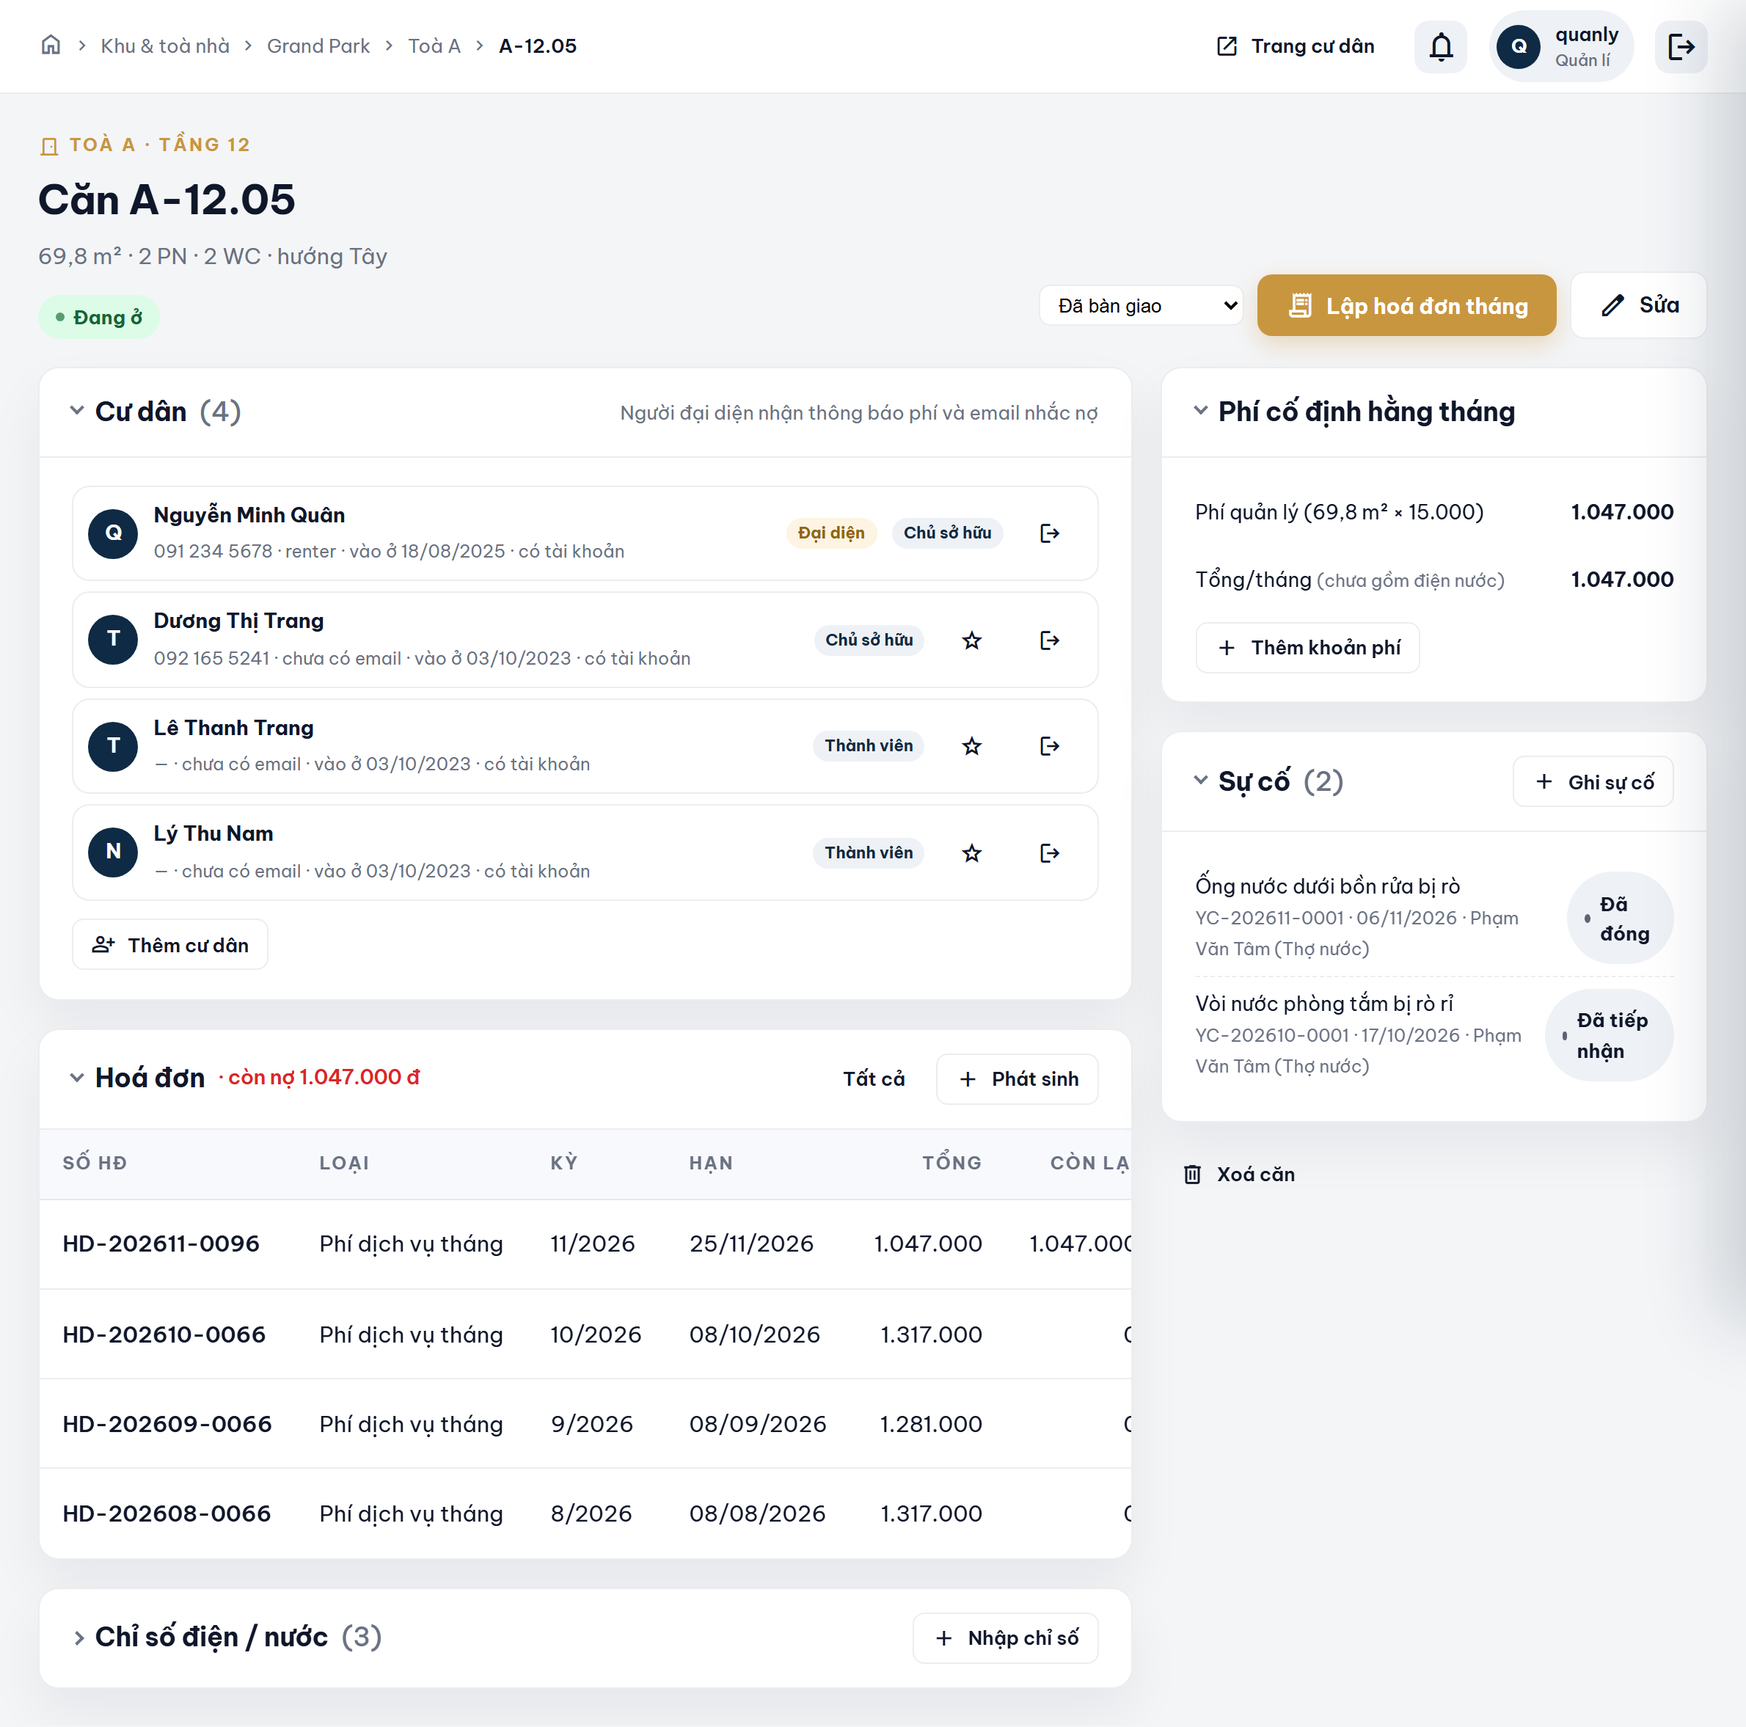
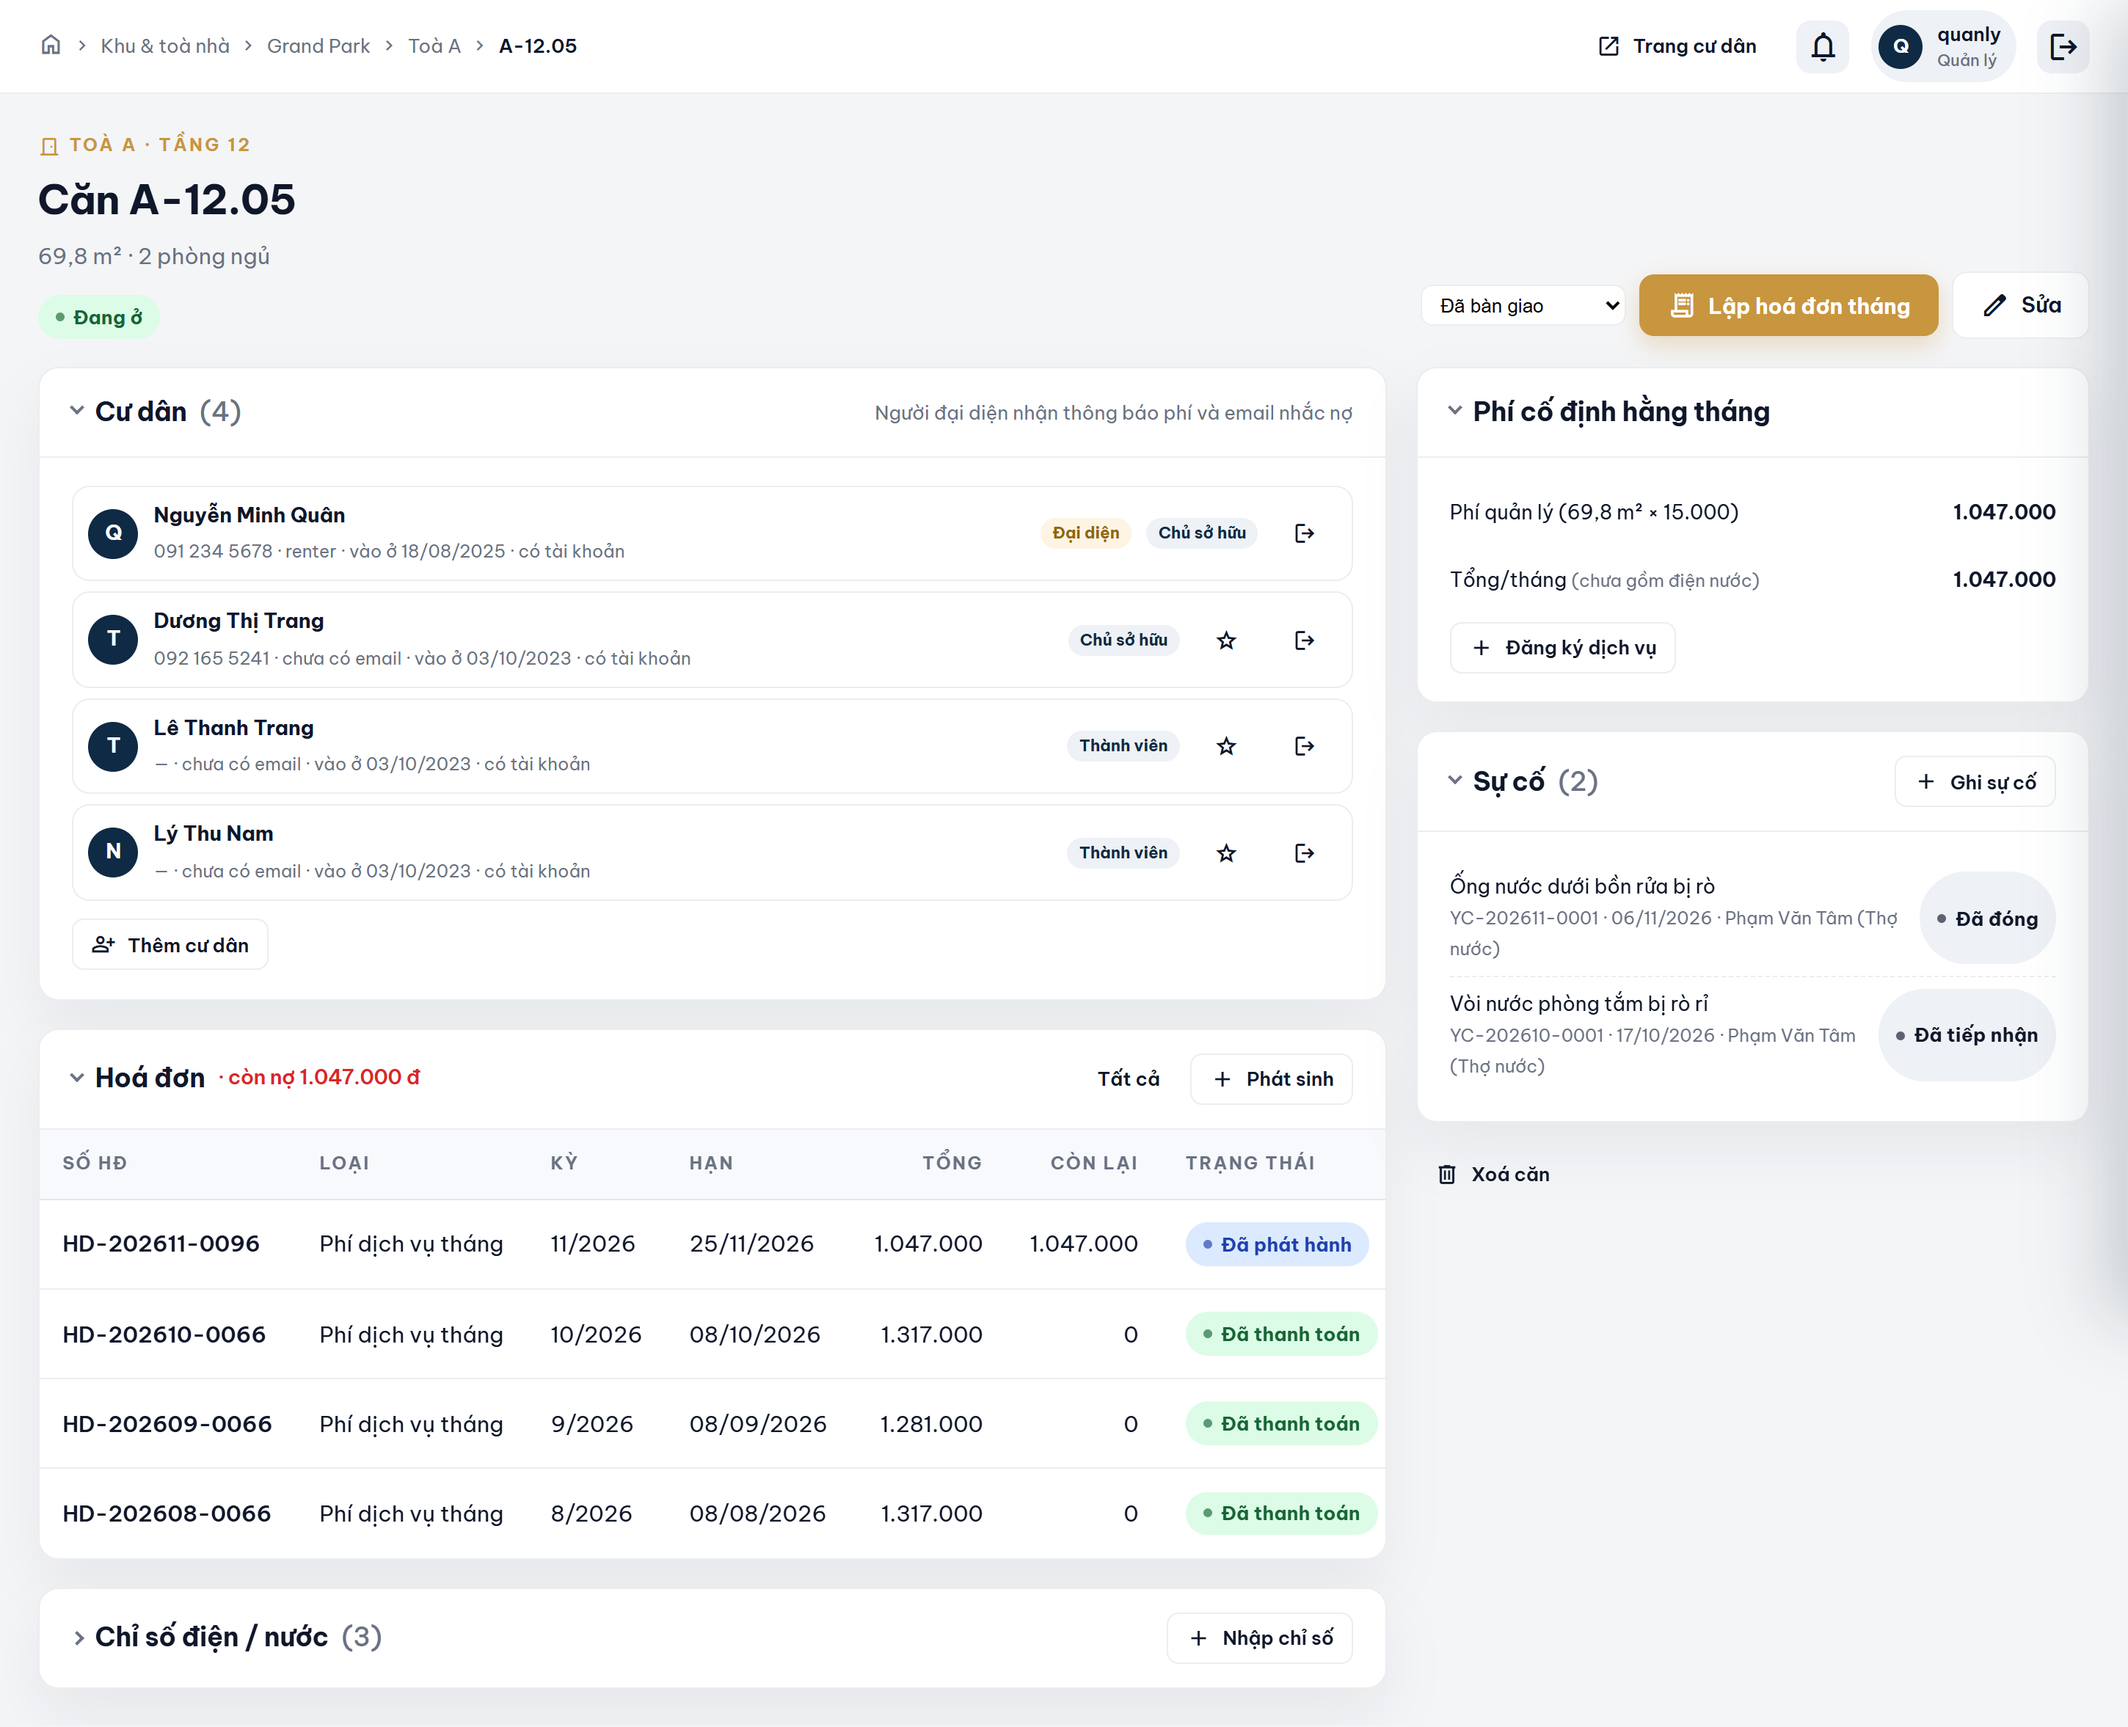
docs: rà Chương 4 và toàn báo cáo theo sổ yêu cầu
- Chương 4 khớp mã nguồn và CSDL; Bảng 4.7 đối chiếu ngày 25/11; chụp lại Hình 4.1-4.7
- Bỏ thuật ngữ kỹ thuật (prompt, token, xmin, tên cột); Bảng 4.2 ghi tên quyền tiếng Việt
- Chương 1: công thức KPI bằng lời, bỏ câu Bản nháp và câu giải thích include/extend
- Bảng kế hoạch: tuần 6 hoàn thành, tuần 7 đang thực hiện; Chương 3 không hứa đánh giá AI ở Chương 4

diff --git a/docs/baocao/tools/chup_man_hinh.py b/docs/baocao/tools/chup_man_hinh.py
@@ -16,7 +16,7 @@ CU_DAN = ("renter@luxehaven.vn", "Renter@123")
 
 # (số hình, tên file, tài khoản, đường dẫn, cách chụp: "trang" | "khung" | selector chứa chữ)
 HINH = [
-    ("4.1", "Trang chi tiet can ho", QUAN_LY, "/Admin/Apartments/Details/93", "trang"),
+    ("4.1", "Trang chi tiet can ho", QUAN_LY, "/Admin/Apartments/Details/93", "trang", 1700),  # bảng hoá đơn đủ cột
     ("4.2", "Hoa don qua han co phi tre", QUAN_LY, "/Admin/Invoices/Details/211", "trang"),
     ("4.3", "Cu dan theo doi yeu cau", CU_DAN, "/Tenant/Maintenance/Details/6", "trang"),
     ("4.4", "Lich su xu ly ngoai le", QUAN_LY, "/Admin/Maintenance/Details/7", "Lịch sử xử lý"),
@@ -30,6 +30,11 @@ AN_TEN = """() => {
   const w = document.createTreeWalker(document.body, NodeFilter.SHOW_TEXT);
   for (let n; (n = w.nextNode());) n.nodeValue = thay(n.nodeValue);
   document.querySelectorAll('input[value]').forEach(i => i.value = thay(i.value));
+  // trình duyệt chụp không theo locale vi-VN cho ô ngày: hiện dd/mm/yyyy như máy tiếng Việt
+  document.querySelectorAll('input[type=date]').forEach(i => {
+    const [y, m, d] = i.value.split('-'); if (!d) return;
+    i.type = 'text'; i.value = `${d}/${m}/${y}`;
+  });
 }"""
 
 
@@ -44,7 +49,7 @@ def dang_nhap(page, tk):
 def main(chon):
     OUT.mkdir(exist_ok=True)
     with sync_playwright() as p:
-        browser = p.chromium.launch(args=["--lang=vi-VN"])   # ô ngày hiện dd/mm/yyyy
+        browser = p.chromium.launch(channel="chromium", args=["--lang=vi-VN"])   # ô ngày hiện dd/mm/yyyy
         ctx = {}
         for so, ten, tk, url, cach, *rong in HINH:
             rong = rong[0] if rong else 1440   # bảng hai cột của báo cáo KPI cần khung rộng hơn

diff --git a/docs/baocao/tools/sua_bao_cao_v2.py b/docs/baocao/tools/sua_bao_cao_v2.py
@@ -531,6 +531,7 @@ def main():
     gon_bao_cao.bo_muc_uc_chuong3(body, set_text)
     gon_bao_cao.gop_so_do_lop(body, set_text)
     gon_bao_cao.bo_viet_tat_thua(body)
+    gon_bao_cao.sua_trang_thai_tuan(body, set_text)
     treo, doi = gon_bao_cao.danh_so_lai(body, set_text)
     print(f"đánh số lại {doi} bảng; tham chiếu treo: {treo or 'không'}")
     treo, doi = gon_bao_cao.danh_so_hinh(body, set_text, {"3.2": "1", "3.4": "1"})

diff --git a/docs/baocao/DanhSach_YeuCau_BaoCao.md b/docs/baocao/DanhSach_YeuCau_BaoCao.md
@@ -68,3 +68,27 @@ người dùng áp được (ở đây: "quá trừu tượng, ưu tiên dễ hi
 - D5: Bảng 2.1 dòng gộp "VAI_TRO, QUYEN" → tách hai dòng.
 - A1: đoạn sơ đồ tuần tự còn luật "thanh kích hoạt"; câu "bội số lấy theo khoá ngoại" → bỏ.
 - A9: câu "chạy thử … thuộc phần việc tiếp theo" (Chương 3) đã cũ → bỏ; danh mục viết tắt bỏ GUID, HTTT, LLM, RD (không còn dùng).
+
+## Kết quả rà Chương 4 ngày 25/11/2026 (đêm)
+
+Đọc toàn văn Chương 4, đối chiếu từng câu với mã nguồn, từng số với CSDL (truy vấn chỉ đọc), chụp lại và xem từng hình.
+- Số liệu đúng: 5 toà, 538 căn, 748 cư dân, kỳ 8–11/2026; giá quản lý 15.000 đ/m², xe máy 120.000 đ; hạn = ngày lập + 7;
+  khoá 5 lần/5 phút; phiên hết hiệu lực sau 1 phút; quét quá hạn 15 phút; Bảng 4.5 khớp lịch sử YC-202611-0001.
+- Bảng 4.7 đổi sang ngày 25/11 (khớp ngày chụp Hình 4.5–4.7); nhóm tuổi nợ đổi: 1–30 ngày = 0, 31–60 = 316.048.734.
+  Mọi số trên app (bảng điều khiển, tình trạng căn, tài chính, tuổi nợ, KPI) khớp SQL.
+- Sai với mã nguồn → sửa: phân loại lại chỉ tính lại hạn khi đổi mức ưu tiên (Bảng 4.6).
+- A2/A5: bỏ prompt, tham số sinh, token, xmin, KetQuaXuLy, "tem bảo mật"; Bảng 4.2 ghi tên quyền tiếng Việt thay mã
+  projects.view…; UTC giải thích bằng lời; bỏ câu thừa về tên miền email thử; câu "đổi loại thành" lặp → gọn.
+- Đồng bộ tên trạng thái: giao diện đổi theo báo cáo (Đang xử lý, Đã xử lý, Từ chối); Bảng 1.10 "Mới gửi, Đã tiếp nhận".
+- Giao diện (thấy khi xem ảnh): "Quản lí"→"Quản lý", "tòa"→"toà", dòng phí quản lý lên đầu hoá đơn, dòng tổng thẳng cột,
+  kỳ ghi thống nhất 8/2026, nhãn trạng thái không xuống dòng, trục biểu đồ "600tr" (bỏ ".0"), "còn dư/Số dư"→"còn nợ",
+  câu báo lỗi "đã Đã huỷ"; Hình 4.1 chụp khung rộng hơn cho đủ cột; ô ngày Hình 4.7 hiện dd/mm/yyyy.
+
+## Rà toàn báo cáo ngày 26/11/2026
+
+Quét tự động mọi mục A–E và đọc toàn văn Chương 1–4; xem lại các trang sơ đồ trên PDF. Sửa thêm:
+- A5: Chương 1 còn tên bảng máy trong câu (NguoiDung, CuTru) và trong cột công thức Bảng KPI (HanXuLy, NgayBao,
+  PhutPhanHoi, DiemDanhGia, HanThanhToan) → viết bằng lời; cột "Dữ liệu dùng" vẫn ghi tên bảng.
+- A9: bảng kế hoạch theo tuần: tuần 6 → Hoàn thành, tuần 7 → Đang thực hiện.
+- A9: Chương 3 nói "Chương 4 trình bày đánh giá AI trên 120 ca" trong khi Chương 4 ghi việc này làm ở tuần 7–9 → bỏ.
+Không còn: Luxe Haven, quy ước đặt tên, cột Biểu diễn, mã trigger/SQL, ký hiệu ∀∃⇒, trích dẫn dồn số, chữ "lí/tòa".
